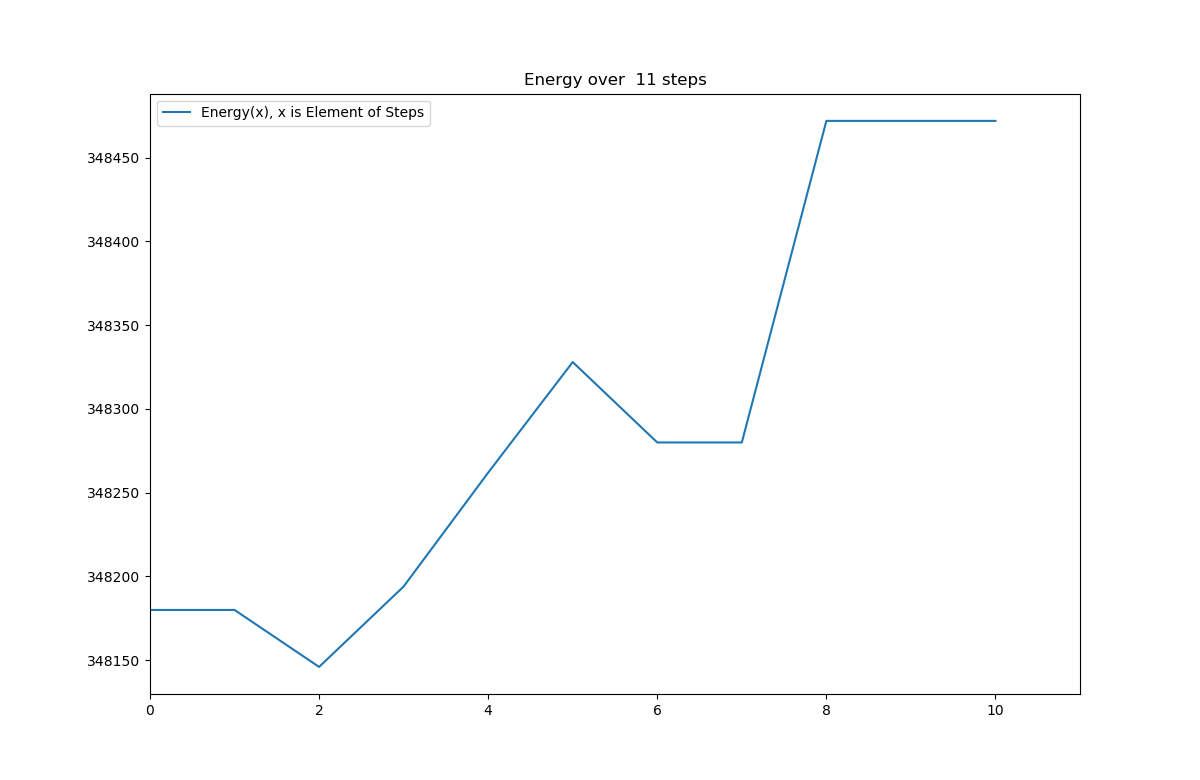
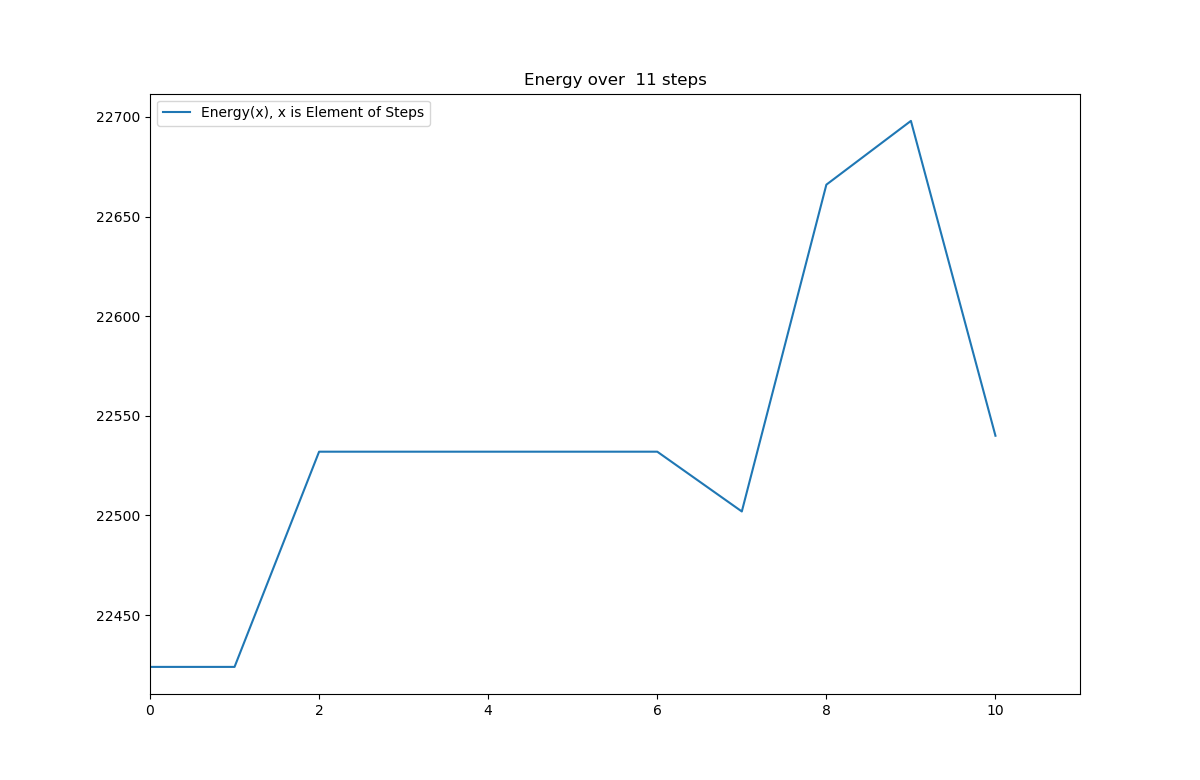
retargeting working! TODO: adapt retarget.hlsl in falcor

diff --git a/Retargeting/Retargeting/SimulatedAnnealing.cpp b/Retargeting/Retargeting/SimulatedAnnealing.cpp
@@ -1,16 +1,19 @@
 #include "SimulatedAnnealing.h"
 
-SimulatedAnnealing::SimulatedAnnealing() : helper(), image_width(64), image_height(64), visualizer(), good_swaps(0), visualize(false) {
+SimulatedAnnealing::SimulatedAnnealing() /*: helper(), image_width(64), image_height(64), visualizer(), good_swaps(0), visualize(false)*/ {
 	
-	this->number_steps = number_steps;
+	/*this->number_steps = number_steps;
 	this->schedule = new Hajek();
 	this->temperature = schedule->getTemperature(0);
-	visualizer = SimulatedAnnealingVisualizer(this->schedule);
+	visualizer = SimulatedAnnealingVisualizer(this->schedule);*/
 
 }
 
-SimulatedAnnealing::SimulatedAnnealing(int number_steps, AnnealingSchedule* schedule, Energy& energy, bool visualize_single_annealing) : helper(), image_width(64), image_height(64), visualizer(), good_swaps(0) {
+SimulatedAnnealing::SimulatedAnnealing(int number_steps, AnnealingSchedule* schedule, Energy& energy, bool visualize_single_annealing, int image_width, int image_height, helpers helper,
+											const char* filename) : visualizer(), good_swaps(0) {
 	
+	this->filename = filename;
+	this->helper = helper;
 	this->visualize = visualize_single_annealing;
 	this->number_steps = number_steps;
 	this->temperature = schedule->getTemperature(0);
@@ -19,10 +22,12 @@ SimulatedAnnealing::SimulatedAnnealing(int number_steps, AnnealingSchedule* sche
 	this->energy = energy;
 	//this->temerature_step = this->max_energy_difference / (number_steps + 1);
 	visualizer = SimulatedAnnealingVisualizer(schedule);
+	this->image_width = image_width; 
+	this->image_height = image_height;
 
 }
 
-Image SimulatedAnnealing::execute(const char* filename, int& good_swaps) {
+Image SimulatedAnnealing::execute(int& good_swaps) {
 	
 	//generate a state with starting permutation: this means
 	//nothing will be switched; just apply where everything will stay
@@ -71,13 +76,13 @@ Image SimulatedAnnealing::execute(const char* filename, int& good_swaps) {
 		permutation_positions_output.push_back(column_pos);
 	}
 
-	helper.loadPNGinArray(filename, dither_data);
+	helper.loadPNGinArray(this->filename, dither_data);
 	helper.getNextDither(dither_data, next_dither_data, image_width, image_height);
 
 	for (unsigned int i = 0; i < this->number_steps; i++) {
 
 		this->temperature = schedule->getTemperature(good_swaps);
-		//std::cout << "Aktuelle Temperatur ist " << this->temperature << "\n";
+		std::cout << "Aktuelle Temperatur ist " << this->temperature << "\n";
 		//calc the energy of our permutation
 		float energy_old_condition = calculateEnergy(dither_data, next_dither_data, permutation_data_output);
 		if (i == 0) {
@@ -285,16 +290,37 @@ float SimulatedAnnealing::calculateEnergy(Image image_t, Image image_next, Image
 
 	for (int i = 0; i < image_width; i++) {
 		for (int j = 0; j < image_height; j++) {
+
 			int permutation_coordinates_x = i + permutation[i][j][0];
 			int permutation_coordinates_y = j + permutation[i][j][1];
 
+			//energy += calculateNeighboringEnergy(image_t, image_next, permutation_coordinates_x, permutation_coordinates_y);
+
 			for (int m = 0; m < 1; m++) {
-				energy += (std::abs(image_t[permutation_coordinates_x][permutation_coordinates_y][m] - image_next[i][j][m]));
+				//calc the direct difference;
+				energy += (std::abs(image_t[i][j][m] - image_next[permutation_coordinates_x][permutation_coordinates_y][m]));
+				//for really making it look like a dither we will have to consider the direct neighborhood
 			}
 		}
 	}
 
 	return energy;
+}
+
+float SimulatedAnnealing::calculateNeighboringEnergy(Image image_t, Image image_next, int perm_index_x, int perm_index_y) {
+
+	float energy = 0;
+
+	//depend on how much channel from dither texture u use
+	/**for () {
+
+		for (int m = 0; m < 1; m++) {
+			energy +=
+		}
+	}*/
+
+	return energy;
+
 }
 
 

diff --git a/Retargeting/Retargeting/SimulatedAnnealingTest.cpp b/Retargeting/Retargeting/SimulatedAnnealingTest.cpp
@@ -1,20 +1,31 @@
 #include "SimulatedAnnealingTest.h";
 
+SimulatedAnnealingTest::SimulatedAnnealingTest() : helper(), number_steps(10000), sa(), image_width(16), image_height(16) {
 
-SimulatedAnnealingTest::SimulatedAnnealingTest() : helper(), number_steps(1000000), sa() {
-	
-	//this->schedule = new ExponentialCoolDown();
+	this->filename = "pictures/BlueNoiseCode/FreeBlueNoiseTextures/Data/16_16/LDR_RGBA_0.png";
 	this->schedule = new Kirkpatrick();
+}
+
+
+SimulatedAnnealingTest::SimulatedAnnealingTest(const char* filename, int image_width, int image_height) : number_steps(1000000) {
+	
+	this->helper = helpers(filename, image_width, image_height);
+	//this->schedule = new ExponentialCoolDown();
+	double T_0 = 511;
+	double quasieq = 4096;
+	double mu = 0.95;
+	this->schedule = new Kirkpatrick(T_0, mu, quasieq);
 	Energy energy;
-	this->sa = SimulatedAnnealing(number_steps, schedule, energy, true);
+	this->sa = SimulatedAnnealing(number_steps, schedule, energy, true, image_width, image_height, helper, filename);
+	this->filename = filename;
 
 }
 
-void SimulatedAnnealingTest::testPermutation(const char* filename) {
+void SimulatedAnnealingTest::testPermutation() {
 
 	int32_t goodswaps = 0;
 
-	Image permutation = sa.execute(filename, goodswaps);
+	Image permutation = sa.execute(goodswaps);
 
 	Image next_dither;
 	Image original; 
@@ -95,13 +106,13 @@ void SimulatedAnnealingTest::testPermutation(const char* filename) {
 	nun = localtime(&Zeitstempel);
 
 	std::stringstream next_dither_ss;
-	next_dither_ss << this->folder_permuted_images << "next_dither_"<< nun->tm_mday << '.' << nun->tm_mon + 1 << '.' << nun->tm_year + 1900 << " - " << nun->tm_hour << '_' << nun->tm_min << filename;
+	next_dither_ss << this->folder_permuted_images << "next_dither_"<< nun->tm_mday << '.' << nun->tm_mon + 1 << '.' << nun->tm_year + 1900 << " - " << nun->tm_hour << '_' << nun->tm_min << this->filename;
 
 	std::stringstream perm_ss;
-	perm_ss << this->folder_permuted_images << "steps_" << goodswaps << "_permuted_"  << this->schedule->getName() << "_" << nun->tm_mday << '.' << nun->tm_mon + 1 << '.' << nun->tm_year + 1900 << " - " << nun->tm_hour << '_' << nun->tm_min << filename;
+	perm_ss << this->folder_permuted_images << "steps_" << goodswaps << "_permuted_"  << this->schedule->getName() << "_" << nun->tm_mday << '.' << nun->tm_mon + 1 << '.' << nun->tm_year + 1900 << " - " << nun->tm_hour << '_' << nun->tm_min << this->filename;
 
 	std::stringstream org_ss;
-	org_ss << this->folder_permuted_images << "org_loaded_and_saved_" << nun->tm_mday << '.' << nun->tm_mon + 1 << '.' << nun->tm_year + 1900 << " - " << nun->tm_hour << '_' << nun->tm_min << filename;
+	org_ss << this->folder_permuted_images << "org_loaded_and_saved_" << nun->tm_mday << '.' << nun->tm_mon + 1 << '.' << nun->tm_year + 1900 << " - " << nun->tm_hour << '_' << nun->tm_min << this->filename;
 
 	//helper.fromImageToFile(org_ss.str().c_str(), original);
 	helper.fromImageToFile(next_dither_ss.str().c_str(), next_dither);

diff --git a/Retargeting/Retargeting/CoolDownTester.cpp b/Retargeting/Retargeting/CoolDownTester.cpp
@@ -2,23 +2,29 @@
 
 namespace plt = matplotlibcpp;
 
-CoolDownTester::CoolDownTester() : number_steps(1000) {
+CoolDownTester::CoolDownTester() : number_steps(1000), image_width(16), image_height(16), dither_texture_path("LDR_RGBA_0_64.png") {
 
     Energy energy;
-    this->sas.push_back(SimulatedAnnealing(number_steps, new Hajek(), energy, false));
-    this->sas.push_back(SimulatedAnnealing(number_steps, new ExponentialCoolDown(), energy, false));
-    this->sas.push_back(SimulatedAnnealing(number_steps, new Lineary(), energy, false));
-    this->sas.push_back(SimulatedAnnealing(number_steps, new Inverse(), energy, false));
+    helpers helper = helpers(dither_texture_path, image_width, image_height);
+    this->sas.push_back(SimulatedAnnealing(number_steps, new Hajek(), energy, false, image_width, image_height, helper, dither_texture_path));
+    this->sas.push_back(SimulatedAnnealing(number_steps, new ExponentialCoolDown(), energy, false, image_width, image_height, helper, dither_texture_path));
+    this->sas.push_back(SimulatedAnnealing(number_steps, new Lineary(), energy, false, image_width, image_height, helper, dither_texture_path));
+    this->sas.push_back(SimulatedAnnealing(number_steps, new Inverse(), energy, false, image_width, image_height, helper, dither_texture_path));
+
 }
 
-CoolDownTester::CoolDownTester(int number_steps) {
+CoolDownTester::CoolDownTester(int number_steps, int image_width, int image_height, const char* filename) {
 
+    helpers helper = helpers(filename, image_width, image_height);
+    this->dither_texture_path = filename;
     Energy energy;
     this->number_steps = number_steps;
-    this->sas.push_back(SimulatedAnnealing(number_steps, new Hajek(), energy, false));
-    this->sas.push_back(SimulatedAnnealing(number_steps, new ExponentialCoolDown(), energy, false));
-    this->sas.push_back(SimulatedAnnealing(number_steps, new Lineary(), energy, false));
-    this->sas.push_back(SimulatedAnnealing(number_steps, new Inverse(), energy, false));
+    this->sas.push_back(SimulatedAnnealing(number_steps, new Hajek(), energy, false, image_width, image_height, helper, filename));
+    this->sas.push_back(SimulatedAnnealing(number_steps, new ExponentialCoolDown(), energy, false, image_width, image_height, helper, filename));
+    this->sas.push_back(SimulatedAnnealing(number_steps, new Lineary(), energy, false, image_width, image_height, helper, filename));
+    this->sas.push_back(SimulatedAnnealing(number_steps, new Inverse(), energy, false, image_width, image_height, helper, filename));
+
+
 }
 
 void CoolDownTester::compareDifferentCoolDownSchedules() {
@@ -28,7 +34,7 @@ void CoolDownTester::compareDifferentCoolDownSchedules() {
     for (auto iter = sas.begin(); iter != sas.end(); ++iter) {
         
         int good_swaps = 0;
-        iter->execute(dither_texture_path, good_swaps);
+        iter->execute(good_swaps);
 
     }
 

diff --git a/Retargeting/Retargeting/SimulatedAnnealing.h b/Retargeting/Retargeting/SimulatedAnnealing.h
@@ -70,9 +70,9 @@ typedef std::vector<int> Probabilities;
 class SimulatedAnnealing {
 	public:
 
-        SimulatedAnnealing(int number_steps, AnnealingSchedule* schedule, Energy& energy, bool visualize_single_annealing);
+        SimulatedAnnealing(int number_steps, AnnealingSchedule* schedule, Energy& energy, bool visualize_single_annealing, int image_width, int image_height, helpers helper, const char* filename);
         SimulatedAnnealing();
-		Image execute(const char* filename, int& good_swaps);
+		Image execute(int& good_swaps);
         Energy getEnergy();
         AnnealingSchedule* getSchedule();
         int getNumSwaps();
@@ -92,9 +92,11 @@ private:
         float temperature;
         bool visualize;
         std::string folder_permutation_textures = "pictures/Permutations/";
+        const char* filename;
 
         helpers helper;
 		float calculateEnergy(Image image_t, Image image_next, Image permutation);
+        float calculateNeighboringEnergy(Image image_t, Image image_next, int perm_index_x, int perm_index_y);
         bool acceptanceProbabilityFunction(const float energy_old_condition, const float energy_new_condition, const float ratio_steps);
         bool applyOneRandomPermutation(Image& permutation_data_output, Image& permutation_positions);
         bool isApplicablePermutation(Image& permutation_data_step, Image& permutation_positions, const int random_x, const int random_y, const int random_step_x, const int random_step_y);

diff --git a/Falcor-3.2.1/Bachelor/RayTracer/PathTracer/RenderPasses/Retargeting.cpp b/Falcor-3.2.1/Bachelor/RayTracer/PathTracer/RenderPasses/Retargeting.cpp
@@ -57,8 +57,8 @@ void Retargeting::initialize(RenderContext * pContext, const RenderData * pRende
 
     //textures for retargeting
 
-    Texture::SharedPtr retarget = createTextureFromFile("permutation_texture_174629_swapsKirkpatrickCooldownSchedule.png", false, false, Resource::BindFlags::ShaderResource | /*Resource::BindFlags::UnorderedAccess|*/
-                                                                                                                                                                                                                                                Resource::BindFlags::RenderTarget);
+    Texture::SharedPtr retarget = createTextureFromFile("permutation_texture_236413_swapsKirkpatrickCooldownSchedule.png", false, false, Resource::BindFlags::ShaderResource | /*Resource::BindFlags::UnorderedAccess|*/
+                                                                                                                                                                                                                                               Resource::BindFlags::RenderTarget);
     mpComputeProgVars->setTexture("retarget_texture", retarget);
 
     //info for the frame

diff --git a/Retargeting/Retargeting/main.cpp b/Retargeting/Retargeting/main.cpp
@@ -99,7 +99,6 @@ int main(int, char**)
 
     //calc retargeted texture with temporal annealing!
     //SimulatedAnnealing* retarget = new SimulatedAnnealing();
-    const char* filename = "LDR_RGBA_0_64.png";
     //retarget->execute(1000000, filename);
 
     //retarget image
@@ -111,9 +110,13 @@ int main(int, char**)
         &my_retarget_texture, g_pd3dDevice, &my_retarget_width, &my_retarget_height);
     if (!erstellt) return 1;
 
+    const char* filename_small = "LDR_RGBA_0_16.png";
+    const char* filename = "LDR_RGBA_0_64.png";
+    int image_width = 64;
+    int image_height = 64;
     //testing the simulated annealing
-    SimulatedAnnealingTest testing;
-    testing.testPermutation(filename);
+    SimulatedAnnealingTest testing = SimulatedAnnealingTest(filename, image_width, image_height);
+    testing.testPermutation();
 
     //test different cool down functions
     /**CoolDownTester test(10000);

diff --git a/Retargeting/Retargeting/Lineary.cpp b/Retargeting/Retargeting/Lineary.cpp
@@ -1,19 +1,30 @@
 #include "Lineary.h"
 
-Lineary::Lineary() : T_0(511), mu(1){
+Lineary::Lineary() : T_0(511), mu(1), current_temperature(T_0), quasiequilibrium(1){
 
 }
 
-Lineary::Lineary(double T_0, double mu) {
+Lineary::Lineary(double T_0, double mu) :  quasiequilibrium(1) {
 	this->T_0 = T_0;
 	this->mu = mu;
+	this->current_temperature = T_0;
 }
+
+Lineary::Lineary(double T_0, int number_of_steps, double quasiequilibrium) {
+
+	this->T_0 = T_0;
+	this->current_temperature = T_0 + 1;
+	this->mu = (T_0 / ((double) number_of_steps));
+	this->quasiequilibrium = quasiequilibrium;
+
+}
+
 
 double Lineary::getTemperature(int step) {
 
-	double temperature = this->T_0 - this->mu*step;
+	if (std::fmod(step + 1, quasiequilibrium) == 0) (this->current_temperature = this->T_0 - this->mu * step);
 
-	return temperature;
+	return this->current_temperature;
 }
 
 std::string Lineary::getName() {

diff --git a/Retargeting/Retargeting/SimulatedAnnealingTest.h b/Retargeting/Retargeting/SimulatedAnnealingTest.h
@@ -6,8 +6,9 @@
 class SimulatedAnnealingTest {
 public: 
 
+	  SimulatedAnnealingTest(const char* filename, int image_width, int image_height);
 	  SimulatedAnnealingTest();
-	  void testPermutation(const char* filename);
+	  void testPermutation();
 	  Image applyPermutationToOriginal(Image original, Image applied_perm);
 
 private:
@@ -17,8 +18,11 @@ private:
 	  AnnealingSchedule* schedule;
 
 	  helpers helper;
-	  const char* dither_texture_path = "LDR_RGBA_0_64.png";
+	  const char* dither_texture_path = "pictures/BlueNoiseCode/FreeBlueNoiseTextures/Data/16_16/LDR_RGBA_0.png";
 	  std::string folder_permuted_images = "pictures/AppliedPermutation/";
 	  std::string folder_energy = "pictures/Energy/";
+	  int image_width;
+	  int image_height;
+	  const char* filename;
 
 };

diff --git a/Retargeting/Retargeting/CoolDownTester.h b/Retargeting/Retargeting/CoolDownTester.h
@@ -16,14 +16,16 @@ class CoolDownTester
 public:
 
 	CoolDownTester();
-	CoolDownTester(int number_steps);
+	CoolDownTester(int number_steps, int image_width, int image_height, const char* filename);
 	void compareDifferentCoolDownSchedules();
 
 private:
 	std::vector<Energy> energies;
 	std::vector<SimulatedAnnealing> sas;
-	const char* dither_texture_path = "LDR_RGBA_0_64.png";
+	const char* dither_texture_path;
 	int number_steps;
 	std::string folder_energy = "pictures/Energy/";
+	int image_width;
+	int image_height;
 };
 

diff --git a/Retargeting/Retargeting/Lineary.h b/Retargeting/Retargeting/Lineary.h
@@ -11,15 +11,19 @@ class Lineary :
 {
 public:
 	Lineary();
+	Lineary(double T_0, int number_of_steps, double quasiequilibrium);
 	Lineary(double T_0, double mu);
 	double getTemperature(int step);
 	std::string getName();
 	std::string getFunction();
 private:
 	double T_0;
+
 	/**
 	values of a fluctuate between 0.8 and 0.99.!!
 	*/
 	double mu;
+	double quasiequilibrium;
+	double current_temperature;
 };
 

diff --git a/Retargeting/Retargeting/helpers.cpp b/Retargeting/Retargeting/helpers.cpp
@@ -6,7 +6,14 @@
 
 using namespace std;
 
-helpers::helpers() : blueNoiseBitMap(), dither_width(64), dither_height(64) {
+helpers::helpers() : blueNoiseBitMap(), dither_width(16), dither_height(16) {
+
+}
+
+helpers::helpers(const char* filename, int dither_width, int dither_height) : blueNoiseBitMap() {
+
+	this->dither_width = dither_width;
+	this->dither_height = dither_height;
 
 }
 

diff --git a/Retargeting/Retargeting/Kirkpatrick.cpp b/Retargeting/Retargeting/Kirkpatrick.cpp
@@ -4,7 +4,8 @@ Kirkpatrick::Kirkpatrick() : T_0(511.f), mu(0.8), currentTemperature(T_0), quasi
 
 }
 
-Kirkpatrick::Kirkpatrick(double T_0, double mu): currentTemperature(511.f), quasiequilibrium(4096) {
+Kirkpatrick::Kirkpatrick(double T_0, double mu, double quasieq): currentTemperature(511.f) {
+	this->quasiequilibrium = quasieq;
 	this->T_0 = T_0;
 	this->mu = mu;
 }
